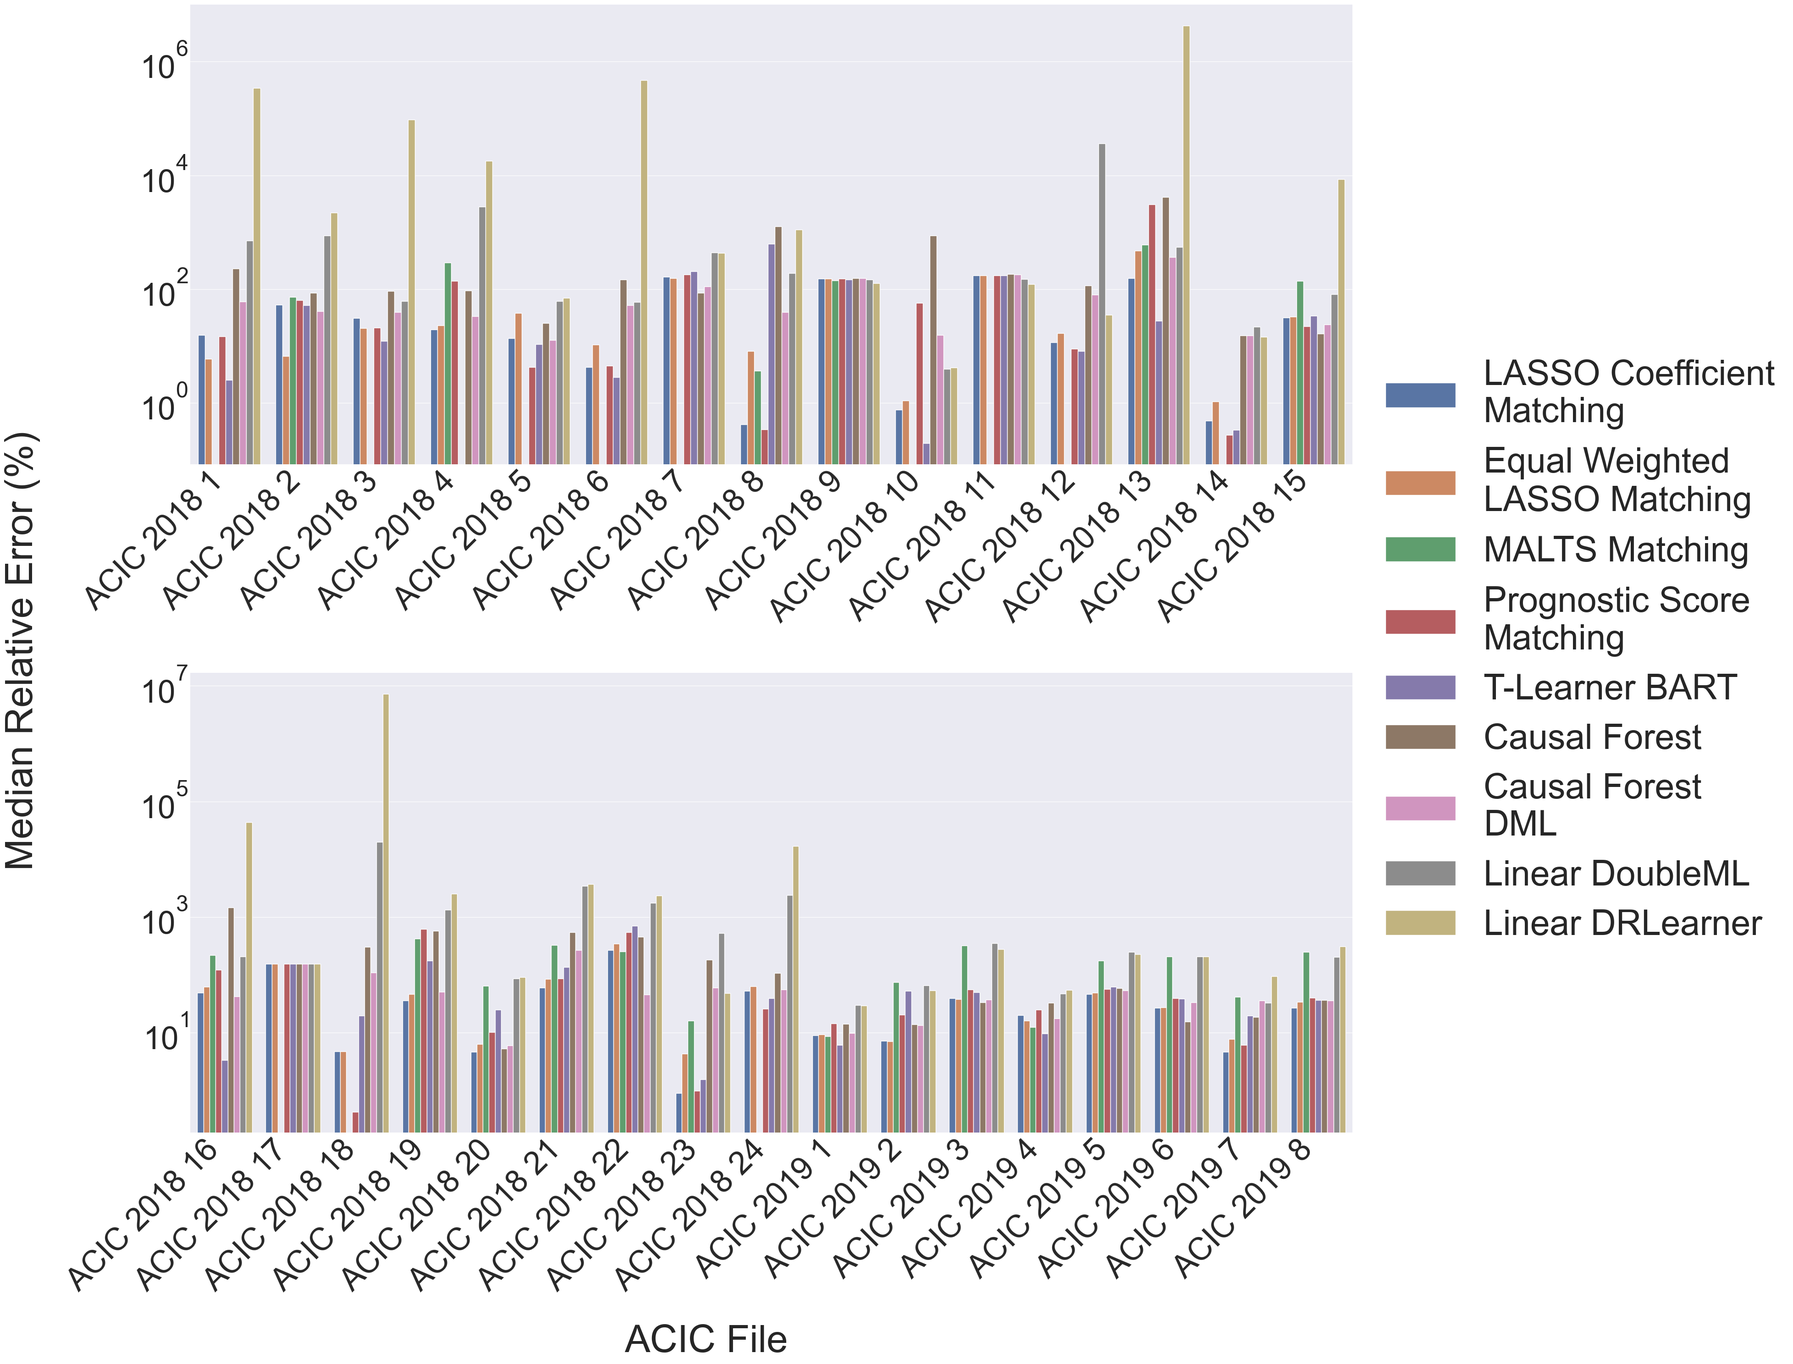
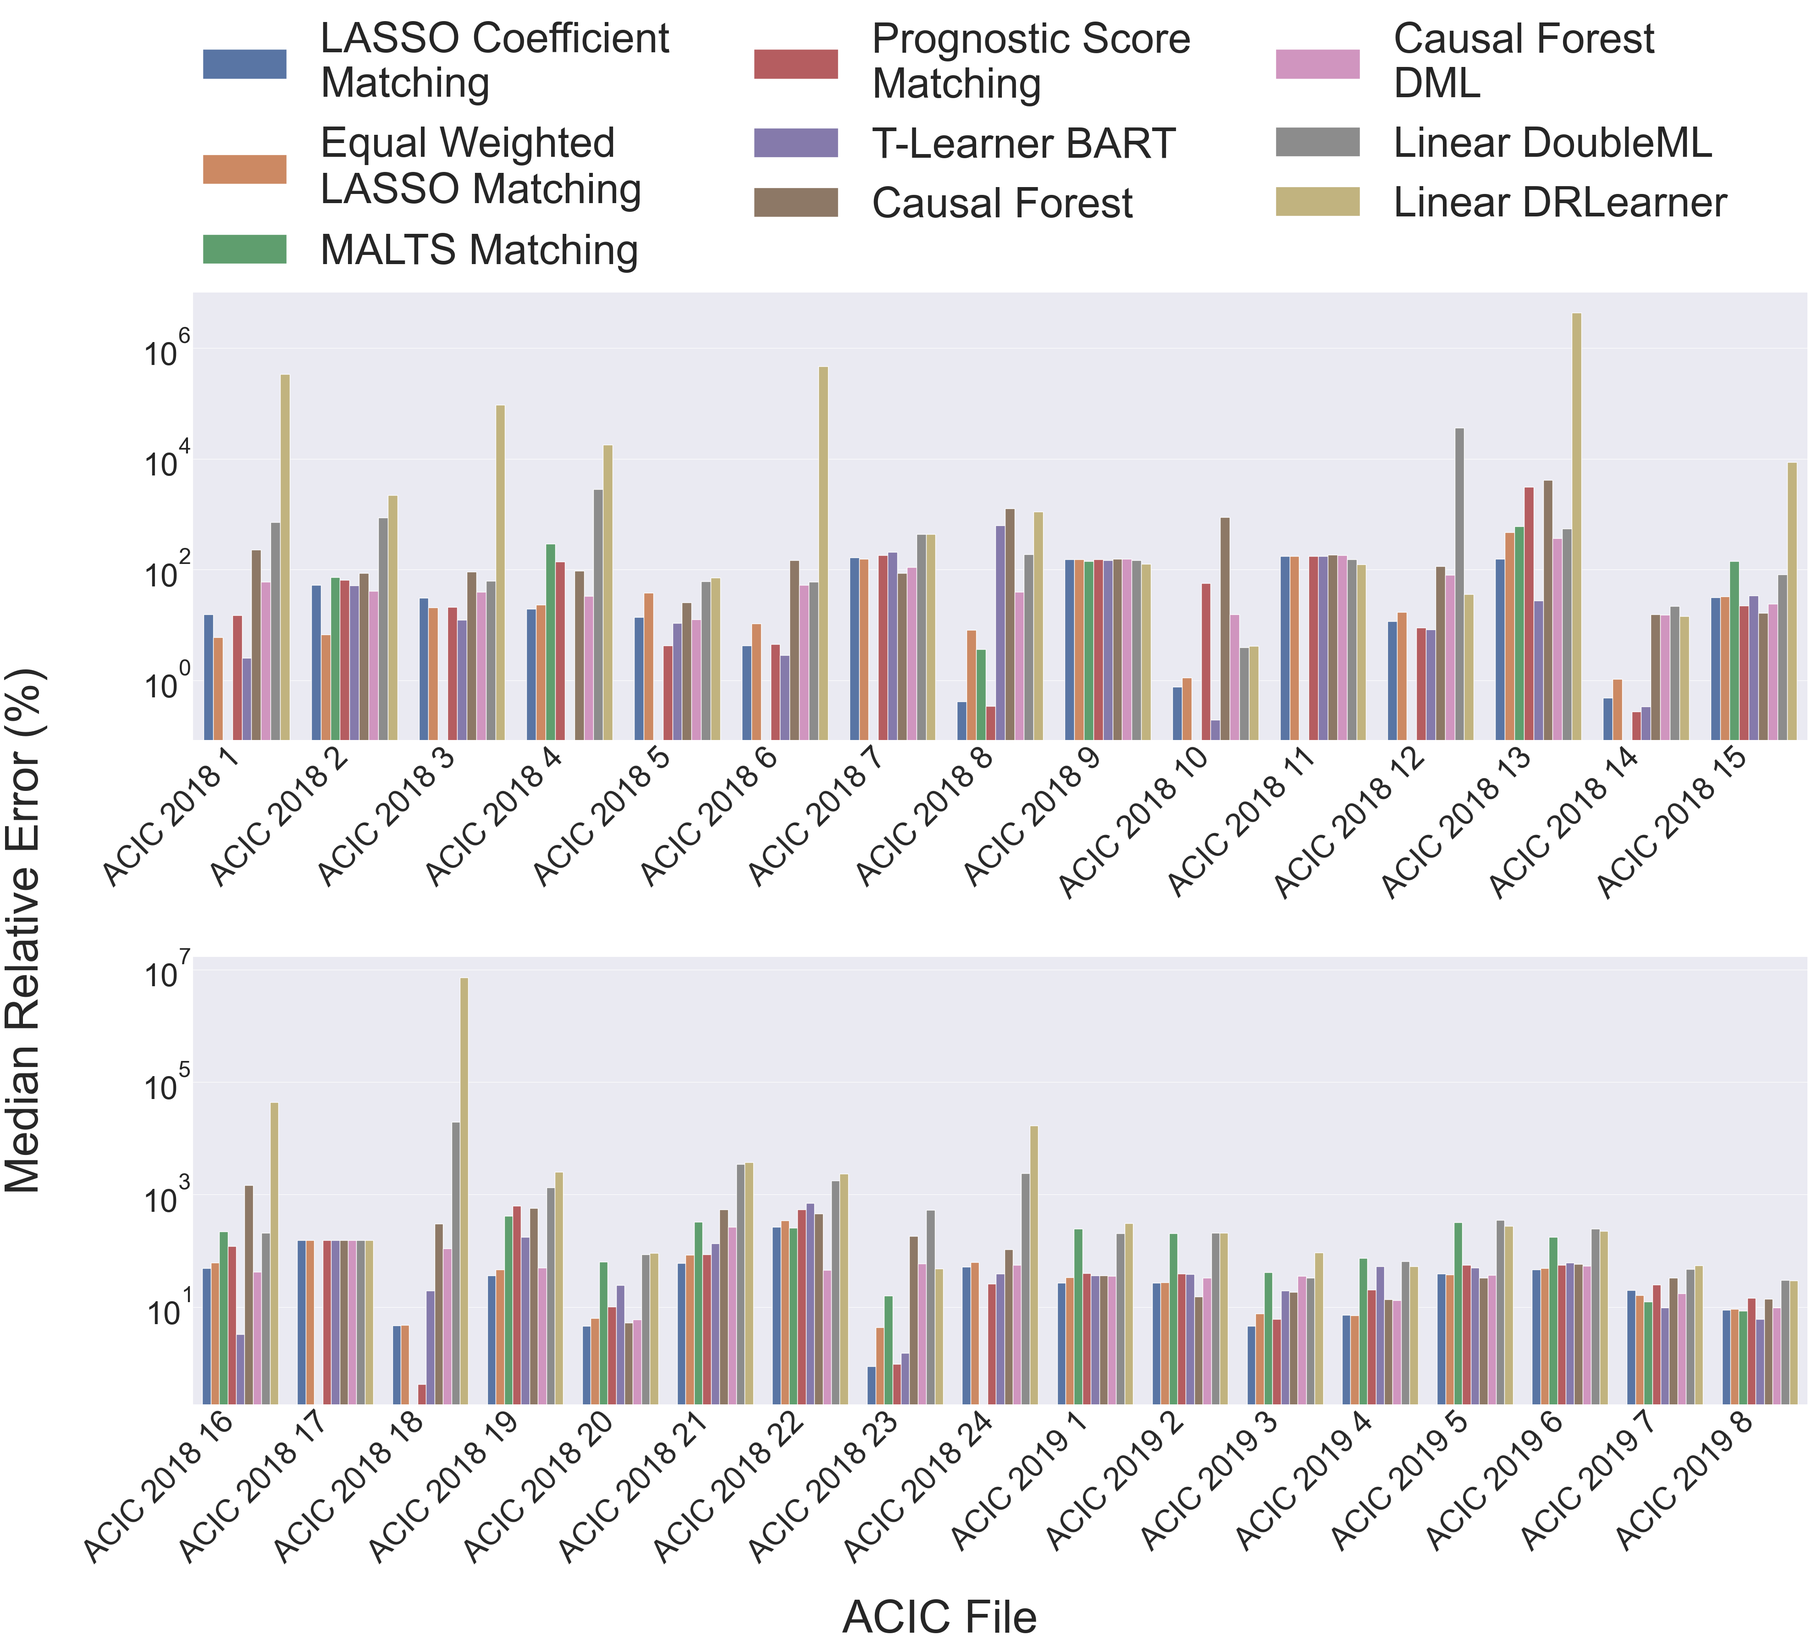
small fixes to runtime files - running test before changing to final run

diff --git a/Experiments/acic_error_and_runtime/plotting/errors.py b/Experiments/acic_error_and_runtime/plotting/errors.py
@@ -1,4 +1,5 @@
 from glob import glob
+import json
 import os
 import pandas as pd
 import matplotlib.pyplot as plt
@@ -27,6 +28,7 @@ rename_methods = {
     "Causal Forest DML": "Causal Forest\nDML",
     'LASSO Coefficient Matching': 'LASSO Coefficient\nMatching',
     "Equal Weighted LASSO Matching": "Equal Weighted\nLASSO Matching",
+    # "Tree Feature Importance Matching": "Tree Feature\nImportance Matching",
     'Prognostic Score Matching': 'Prognostic Score\nMatching',
     "DoubleML": "Linear DoubleML",
     "DRLearner": "Linear DRLearner"
@@ -35,7 +37,7 @@ rename_methods = {
 order = [
     'LASSO Coefficient\nMatching',
     "Equal Weighted\nLASSO Matching",
-    # 'Tree Feature Importance Matching',
+    # 'Tree Feature\nImportance Matching',
     'MALTS Matching',
     'Prognostic Score\nMatching',
     "T-Learner BART",
@@ -50,12 +52,10 @@ failed_files = []
 name_to_label = {}
 
 acic_2018_file_no = 1
-acic_2019_file_no = 1
 for f in all_folders:
     if os.path.isfile(f'{f}df_err.csv'):
         if 'acic_2019' in f:
-            label = f'ACIC 2019 {acic_2019_file_no}'
-            acic_2019_file_no += 1
+            label = f"ACIC 2019 {f.split('/')[-2].split('_')[1].split('-')[1]}"
         elif 'acic_2018' in f:
             label = f'ACIC 2018 {acic_2018_file_no}'
             acic_2018_file_no += 1
@@ -64,6 +64,9 @@ for f in all_folders:
     else:
         failed_files.append(f.split('/')[-2])
         print(f"Failed: {f.split('/')[-2]}")
+
+with open(f'plots/acic_file_to_num{plot_name}.txt', 'w') as f:
+    f.write(json.dumps({v: k for k, v in name_to_label.items()}))
 
 all_errors = all_errors.reset_index().melt(id_vars=['index'])
 all_errors.columns = ['Method', 'ACIC File', 'Median Relative Error (%) (log)']
@@ -74,17 +77,17 @@ all_errors['Method'] = all_errors['Method'].apply(lambda x: rename_methods[x] if
 
 matplotlib.rcParams.update({'font.size': 50})
 plt.style.use(['seaborn-darkgrid'])
-fig, axes = plt.subplots(2, 1, figsize=(30, 30))
+fig, axes = plt.subplots(2, 1, figsize=(40, 30))
 sns.set_context("paper")
 sns.set_style("darkgrid")
-sns.set(font_scale=5)
+sns.set(font_scale=6)
 b1 = sns.barplot(data=all_errors[(all_errors['acic_year'] == 2018) & (all_errors['acic_file_no'] <= 15)],
                  x="ACIC File", y="Median Relative Error (%) (log)", hue="Method", hue_order=order, ax=axes[0])
 b2 = sns.barplot(data=all_errors[((all_errors['acic_year'] == 2018) & (all_errors['acic_file_no'] > 15)) | (all_errors['acic_year'] == 2019)],
                  x="ACIC File", y="Median Relative Error (%) (log)", hue="Method", hue_order=order, ax=axes[1])
 
 handles, labels = axes[0].get_legend_handles_labels()
-fig.legend(handles, labels, loc='right', bbox_to_anchor=(1.3, 0.5))
+fig.legend(handles, labels, loc='right', bbox_to_anchor=(0.95, 1.07), ncol=3)
 for ax in axes:
     ax.set_xticks(ax.get_xticks(), ax.get_xticklabels(), rotation=45, ha='right')
     ax.set_yscale('log')
@@ -101,12 +104,12 @@ n_methods = rankings['Method'].nunique()
 rankings['Ranking'] = list(range(1, n_methods+1))*(rankings.shape[0] // n_methods)
 rankings = rankings[~rankings['Median Relative Error (%) (log)'].isna()]
 
-plt.figure(figsize=(24, 16))
+plt.figure(figsize=(26, 23))
 sns.set_context("paper")
 sns.set_style("darkgrid")
-sns.set(font_scale=4)
+sns.set(font_scale=6)
 sns.boxplot(data=rankings, x="Ranking", y="Method", order=order)
-plt.xticks(rotation=65, horizontalalignment='right')
+plt.xticks(list(range(1, 1+len(order))))
 plt.tight_layout()
 plt.savefig(f'plots/acic_cate_errors_ranking{plot_name}.png')
 

diff --git a/datagen/dgp.py b/datagen/dgp.py
@@ -185,20 +185,16 @@ def dgp_test(n_samples, n_imp, n_unimp):
                 y0 - y0_errors).reshape(-1, 1), (y1 - y1_errors).reshape(-1, 1)
 
 
-def dgp_poly_no_interaction(n_samples, n_imp, n_unimp):
-    # x_imp = np.linspace(-1, 1, n_samples).reshape(-1, 1)
-    x_imp = np.random.uniform(-2, 2, size=(n_samples, n_imp))
-    t_imp = np.random.binomial(1, 0.5, size=(n_imp,))
+def dgp_poly_basic(n_samples, n_imp, n_t_imp, n_unimp, powers=[2], t_powers=[2]):
+    x_imp = np.random.uniform(-10, 10, size=(n_samples, n_imp))
     t = np.random.binomial(1, 0.5, size=(n_samples,))
 
     eff_sign = np.random.choice([-1, 1], n_imp)
-    eff_powers = np.random.randint(2, 3, size=(n_imp,))
-    t_eff_sign = np.random.choice([-1, 1], n_imp)
-    t_eff_powers = np.random.randint(2, 3, size=(n_imp,))
+    eff_powers = np.random.choice(powers, size=(n_imp,))
     y0 = np.sum(eff_sign*(x_imp ** eff_powers), axis=1)
-    y1 = np.sum(eff_sign*(x_imp ** eff_powers), axis=1) + np.sum(t_eff_sign*((x_imp * t_imp) ** t_eff_powers), axis=1)
-    y0_errors = np.random.normal(0, 0.03 * np.std(y0), size=n_samples)
-    y1_errors = np.random.normal(0, 0.03 * np.std(y1), size=n_samples)
+    y1 = y0 + 10
+    y0_errors = np.random.normal(0, 1, size=n_samples)
+    y1_errors = np.random.normal(0, 1, size=n_samples)
     te = y1 - y0
     y0 = y0 + y0_errors
     y1 = y1 + y1_errors
@@ -206,35 +202,3 @@ def dgp_poly_no_interaction(n_samples, n_imp, n_unimp):
     x_unimp = np.random.uniform(-2, 2, size=(n_samples, n_unimp))
     X = np.concatenate([x_imp, x_unimp], axis=1)
     return X, y.reshape(-1, 1), t.reshape(-1, 1), y0.reshape(-1, 1), y1.reshape(-1, 1), te.reshape(-1, 1), (y0 - y0_errors).reshape(-1, 1), (y1 - y1_errors).reshape(-1, 1)
-
-
-def dgp_poly_interaction(n_samples, n_imp, n_unimp):
-    x_imp = np.random.uniform(0, 5, size=(n_samples, n_imp))
-    t_imp = [1] * n_imp
-    int_y = []
-    int_te = []
-    for c in itertools.combinations(range(n_imp), 2):
-        r = np.random.binomial(1, 0.5, size=(2,))
-        eff = np.random.choice([-1, 1]) * (x_imp[:, c[0]] * x_imp[:, c[1]])
-        int_y.append((r[0] * eff).reshape(-1, 1))
-        int_te.append((r[1] * eff).reshape(-1, 1))
-    int_y = np.sum(np.concatenate(int_y, axis=1), axis=1)
-    int_te = np.sum(np.concatenate(int_te, axis=1), axis=1)
-    t = np.random.binomial(1, 0.5, size=(n_samples,))
-
-    eff_sign = np.random.choice([-1, 1], n_imp)
-    eff_powers = [3] * n_imp
-    t_eff_sign = [1, -1, 1, 0, 0, 0, 0, 0]
-    t_eff_powers = [3] * n_imp
-    y0 = np.sum(eff_sign*(x_imp ** eff_powers), axis=1) + int_y
-    y1 = np.sum(eff_sign*(x_imp ** eff_powers), axis=1) + int_y + np.sum(t_eff_sign*((x_imp * t_imp) ** t_eff_powers), axis=1) + int_te
-    y0_errors = np.random.normal(0, 1, size=n_samples)
-    y1_errors = np.random.normal(0, 1, size=n_samples)
-    te = y1 - y0
-    y0 = y0 + y0_errors
-    y1 = y1 + y1_errors
-    y = (y0 * (1 - t)) + (y1 * t)
-    x_unimp = np.random.uniform(0, 5, size=(n_samples, n_unimp))
-    X = np.concatenate([x_imp, x_unimp], axis=1)
-    return X, y.reshape(-1, 1), t.reshape(-1, 1), y0.reshape(-1, 1), y1.reshape(-1, 1), te.reshape(-1, 1), (y0 - y0_errors).reshape(-1, 1), (y1 - y1_errors).reshape(-1, 1)
-

diff --git a/Experiments/mg_comparison/acic_mg_comparison.py b/Experiments/mg_comparison/acic_mg_comparison.py
@@ -4,9 +4,10 @@ import shutil
 import pandas as pd
 import warnings
 
+import matplotlib
 import matplotlib.pyplot as plt
+import matplotlib.ticker as ticker
 import seaborn as sns
-from sklearn.model_selection import train_test_split
 
 from other_methods import prognostic
 from src.linear_coef_matching import LCM
@@ -132,7 +133,13 @@ lcm_diffs['Method'] = 'Linear Coefficient\nMatching'
 ewl_diffs['Method'] = 'Equal Weighted\nLASSO Matching'
 prog_diffs['Method'] = 'Prognostic Score\nMatching'
 binary_sims = pd.concat([lcm_diffs, ewl_diffs, prog_diffs])
-binary_sims[int_types] = (k_est - binary_sims[int_types]) / k_est
+for c in binary_sims.columns:
+    if len(c) > 10:
+        binary_sims = binary_sims.rename(columns={c: '_\n'.join(c.split('_'))})
+        int_types = [d for d in int_types if d != c]
+        int_types.append('_\n'.join(c.split('_')))
+        int_types = np.array(int_types)
+binary_sims[int_types] = ((k_est - binary_sims[int_types]) / k_est) * 100
 binary_sims = pd.melt(binary_sims, id_vars=['Method']).dropna(subset=['value'])
 binary_sims = binary_sims.rename(columns={'variable': 'Binary Covariate', 'value': binary_y_label})
 
@@ -172,17 +179,23 @@ if len(float_types) > 0:
     ewl_std['Method'] = 'Equal Weighted\nLASSO Matching'
     prog_std['Method'] = 'Prognostic Score\nMatching'
     cont_sims = pd.concat([lcm_std, ewl_std, prog_std])
+    cont_sims = cont_sims.rename(columns={'wtgain': 'wtgain\n'})
     cont_sims = pd.melt(cont_sims, id_vars=['Method'])
     cont_sims = cont_sims.rename(columns={'variable': 'Continuous Covariate', 'value': cont_y_label})
 
 if (len(int_types) > 0) & (len(float_types) > 0):
-    fig, axes = plt.subplots(1, 2)
-    sns.barplot(ax=axes[0], data=binary_sims, x='Binary Covariate', y=binary_y_label, hue='Method')
+    matplotlib.rcParams.update({'font.size': 50})
+    plt.style.use(['seaborn-darkgrid'])
+    fig, axes = plt.subplots(1, 2, figsize=(26, 14))
+    sns.barplot(ax=axes[0], data=binary_sims, x='Binary Covariate', y=binary_y_label, hue='Method', errorbar=None)
     sns.boxplot(ax=axes[1], data=cont_sims, x='Continuous Covariate', y=cont_y_label, hue='Method')
     handles, labels = axes[0].get_legend_handles_labels()
-    fig.legend(handles, labels, loc='right', bbox_to_anchor=(0.95, 1.05), ncol=3)
+    fig.legend(handles, labels, loc='right', bbox_to_anchor=(0.95, 1.02), ncol=3, fontsize=50,
+               columnspacing=0.5)
     for ax in axes:
         ax.get_legend().remove()
+    axes[0].yaxis.set_major_formatter(ticker.PercentFormatter())
+    axes[1].set_ylim([0,40])
     fig.tight_layout()
     fig.savefig(f'{save_folder}/all_mg.png', bbox_inches='tight')
 elif len(int_types) > 0:

diff --git a/datagen/dgp_df.py b/datagen/dgp_df.py
@@ -7,7 +7,7 @@ from sklearn.preprocessing import StandardScaler
 from sklearn.experimental import enable_iterative_imputer
 from sklearn.impute import IterativeImputer
 
-from datagen.dgp import dgp_poly_no_interaction, dgp_poly_interaction,dgp_friedman, data_generation_dense_mixed_endo, \
+from datagen.dgp import dgp_poly_basic, dgp_friedman, data_generation_dense_mixed_endo, \
     dgp_sine, dgp_non_linear_mixed, dgp_polynomials, dgp_test
 
 np.random.seed(0)
@@ -18,6 +18,24 @@ ACIC_2018_FOLDER = os.getenv('ACIC_2018_FOLDER')
 ACIC_2019_FOLDER = os.getenv('ACIC_2019_FOLDER')
 ACIC_2022_FOLDER = os.getenv('ACIC_2022_FOLDER')
 NEWS_FOLDER = os.getenv('NEWS_FOLDER')
+
+
+def dgp_poly_basic_df(n_samples, n_imp, n_t_imp, n_unimp, powers=[2], t_powers=[2], perc_train=None, n_train=None):
+    if perc_train:
+        train_idx = int(n_samples*perc_train)
+    else:
+        train_idx = n_train
+    X, Y, T, Y0, Y1, TE, Y0_true, Y1_true = dgp_poly_basic(n_samples, n_imp, n_t_imp, n_unimp, powers=powers,
+                                                           t_powers=t_powers)
+    df = pd.DataFrame(np.concatenate([X, Y, T, Y0, Y1, TE, Y0_true, Y1_true], axis=1))
+    x_cols = [f'X{i}' for i in range(X.shape[1])]
+    df.columns = [*x_cols, 'Y', 'T', 'Y0', 'Y1', 'TE', 'Y0_true', 'Y1_true']
+    df[x_cols] = StandardScaler().fit_transform(df[x_cols])
+    df_train = df.copy(deep=True)[:train_idx]
+    df_train = df_train.drop(columns=['Y0', 'Y1', 'TE', 'Y0_true', 'Y1_true'])
+    df_true = df.copy(deep=True)[train_idx:]
+    df_assess = df_true.copy(deep=True).drop(columns=['Y0', 'Y1', 'TE', 'Y0_true', 'Y1_true'])
+    return df_train.reset_index(drop=True), df_assess.reset_index(drop=True), df_true.reset_index(drop=True), x_cols
 
 
 def dgp_df(dgp, n_samples, n_imp=None, n_unimp=None, perc_train=None, n_train=None):
@@ -32,12 +50,6 @@ def dgp_df(dgp, n_samples, n_imp=None, n_unimp=None, perc_train=None, n_train=No
         discrete = []
     if dgp == 'test':
         X, Y, T, Y0, Y1, TE, Y0_true, Y1_true = dgp_test(n_samples, n_imp, n_unimp)
-        discrete = []
-    if dgp == 'poly_no_interaction':
-        X, Y, T, Y0, Y1, TE, Y0_true, Y1_true = dgp_poly_no_interaction(n_samples, n_imp, n_unimp)
-        discrete = []
-    if dgp == 'poly_interaction':
-        X, Y, T, Y0, Y1, TE, Y0_true, Y1_true = dgp_poly_interaction(n_samples, n_imp, n_unimp)
         discrete = []
     elif dgp == 'friedman':
         X, Y, T, Y0, Y1, TE, Y0_true, Y1_true = dgp_friedman(n_samples)

diff --git a/Experiments/tree_model/lcm_vs_tree.py b/Experiments/tree_model/lcm_vs_tree.py
@@ -1,0 +1,49 @@
+import numpy as np
+import pandas as pd
+
+from datagen.dgp_df import dgp_poly_basic_df
+from src.linear_coef_matching_mf import LCM_MF
+
+
+random_state = 1
+n_samples = 1000
+n_imp = 1
+n_t_imp = 1
+n_unimp = 3
+n_splits = 2
+k_est = 15
+
+_, df_data, df_true, x_cols = dgp_poly_basic_df(n_samples=1000,  n_imp=n_imp, n_t_imp=n_t_imp, n_unimp=n_unimp,
+                                                n_train=0)
+
+df_err = pd.DataFrame(columns=['Method', 'True_CATE', 'Est_CATE', 'Relative Error (%)'])
+
+method_name = 'LASSO Coefficient Matching'
+lcm = LCM_MF(outcome='Y', treatment='T', data=df_data, n_splits=n_splits, n_repeats=1, random_state=random_state)
+split_strategy = lcm.gen_skf
+lcm.fit(method='linear')
+lcm.MG(k=k_est)
+lcm.CATE(cate_methods=[['mean', False]])
+cate_df = lcm.cate_df
+cate_df = cate_df.rename(columns={'avg.CATE': 'Est_CATE'})
+cate_df['True_CATE'] = df_true['TE'].to_numpy()
+cate_df['Relative Error (%)'] = np.abs((cate_df['Est_CATE']-cate_df['True_CATE'])/np.abs(cate_df['True_CATE']).mean())
+cate_df['Method'] = [method_name for i in range(cate_df.shape[0])]
+df_err = pd.concat([df_err, cate_df[['Method', 'True_CATE', 'Est_CATE', 'Relative Error (%)']].copy(deep=True)])
+print(f'{method_name} method complete')
+
+method_name = 'RF Feature Importance Matching'
+rfm = LCM_MF(outcome='Y', treatment='T', data=df_data, n_splits=n_splits, n_repeats=1, random_state=random_state)
+rfm.gen_skf = split_strategy
+rfm.fit(method='tree', params={'max_depth': 4})
+rfm.MG(k=k_est)
+rfm.CATE(cate_methods=[['mean', False]])
+cate_df2 = rfm.cate_df
+cate_df2 = cate_df2.rename(columns={'avg.CATE': 'Est_CATE'})
+cate_df2['True_CATE'] = df_true['TE'].to_numpy()
+cate_df2['Relative Error (%)'] = np.abs((cate_df2['Est_CATE']-cate_df2['True_CATE'])/np.abs(cate_df2['True_CATE']).mean())
+cate_df2['Method'] = [method_name for i in range(cate_df2.shape[0])]
+df_err = pd.concat([df_err, cate_df2[['Method', 'True_CATE', 'Est_CATE', 'Relative Error (%)']].copy(deep=True)])
+print(f'{method_name} method complete')
+
+print('hi')

diff --git a/src/linear_coef_matching.py b/src/linear_coef_matching.py
@@ -8,7 +8,7 @@ Created on Sat May 14 2022
 import numpy as np
 
 from sklearn.base import clone as clone_est
-from sklearn.ensemble import GradientBoostingClassifier, GradientBoostingRegressor
+import sklearn.ensemble as ensemble
 import sklearn.linear_model as linear
 import sklearn.tree as tree
 
@@ -110,6 +110,9 @@ class LCM:
             elif method == 'tree':
                 model = tree.DecisionTreeRegressor(**params).fit(self.X, self.Y)
                 M_hat = model.feature_importances_[:-1].reshape(-1,)
+            elif method == 'rf':
+                model = ensemble.RandomForestRegressor(**params).fit(self.X, self.Y)
+                M_hat = model.feature_importances_[:-1].reshape(-1,)
             else:
                 raise Exception(f'Fit method not supported.')
             if equal_weights:
@@ -153,9 +156,9 @@ class LCM:
 
     def augment(self, estimator=None):
         if estimator is None and self.binary_outcome:
-            estimator = GradientBoostingClassifier(random_state=self.random_state)
+            estimator = ensemble.GradientBoostingClassifier(random_state=self.random_state)
         elif estimator is None:
-            estimator = GradientBoostingRegressor(random_state=self.random_state)
+            estimator = ensemble.GradientBoostingRegressor(random_state=self.random_state)
         self.est_C = estimator
         self.est_T = clone_est(self.est_C)
         self.est_C.fit(self.X[self.T == 0, :-1], self.Y[self.T == 0])

diff --git a/Experiments/cate_error/run.py b/Experiments/cate_error/run.py
@@ -11,7 +11,7 @@ k_est_mean = 15
 k_est_linear = 60
 
 datasets = [
-    # 'dense_continuous',
+    'dense_continuous',
     # 'dense_discrete',
     # 'dense_mixed',
     # 'polynomials',
@@ -24,7 +24,7 @@ datasets = [
     # 'friedman',
     # 'ihdp',
     # 'acic_2018',
-    'acic_2019',
+    # 'acic_2019',
     # 'news'
 ]
 
@@ -37,7 +37,7 @@ all_acic_2019_files = [1, 2, 5, 6]
 
 methods_config = {
     'linear_coef_matching': {'double_model': [False], 'n_repeats': 1, 'params': None,
-                             'methods': [['linear_pruned', False], ['double_linear_pruned', False]]},
+                             'methods': [['linear_pruned', False]]},
     # 'tree_imp_matching': True,
     # 'malts': {'methods': ['linear']},
     # 'manhatten': {'methods': ['mean', 'linear']},
@@ -55,8 +55,8 @@ for data in datasets:
         n_splits = 6
         dataset_config['num_samples'] = 3000
         if 'continuous' in data:
-            dataset_config['imp_c'] = 15
-            dataset_config['unimp_c'] = 25
+            dataset_config['imp_c'] = 2
+            dataset_config['unimp_c'] = 10
             dataset_config['imp_d'] = 0
             dataset_config['unimp_d'] = 0
         elif 'discrete' in data:

diff --git a/Experiments/acic_error_and_runtime/runtimes/pickle_load_split.py b/Experiments/acic_error_and_runtime/runtimes/pickle_load_split.py
@@ -1,8 +1,9 @@
 import numpy as np
 import pickle
 
+
 def pickle_load_split(acic_results_folder, split_num):
     with open(f'{acic_results_folder}split.pkl', 'rb') as f:
-        idx = pickle.load(f)[split_num]
+        idx = pickle.load(f)[int(split_num)]
     idx = [(np.array(i) + 1).tolist() for i in idx]
     return idx

diff --git a/sample_utils.py b/sample_utils.py
@@ -1,3 +1,4 @@
+import pandas as pd
 from sklearn.linear_model import RidgeCV
 from sklearn.neighbors import NearestNeighbors
 
